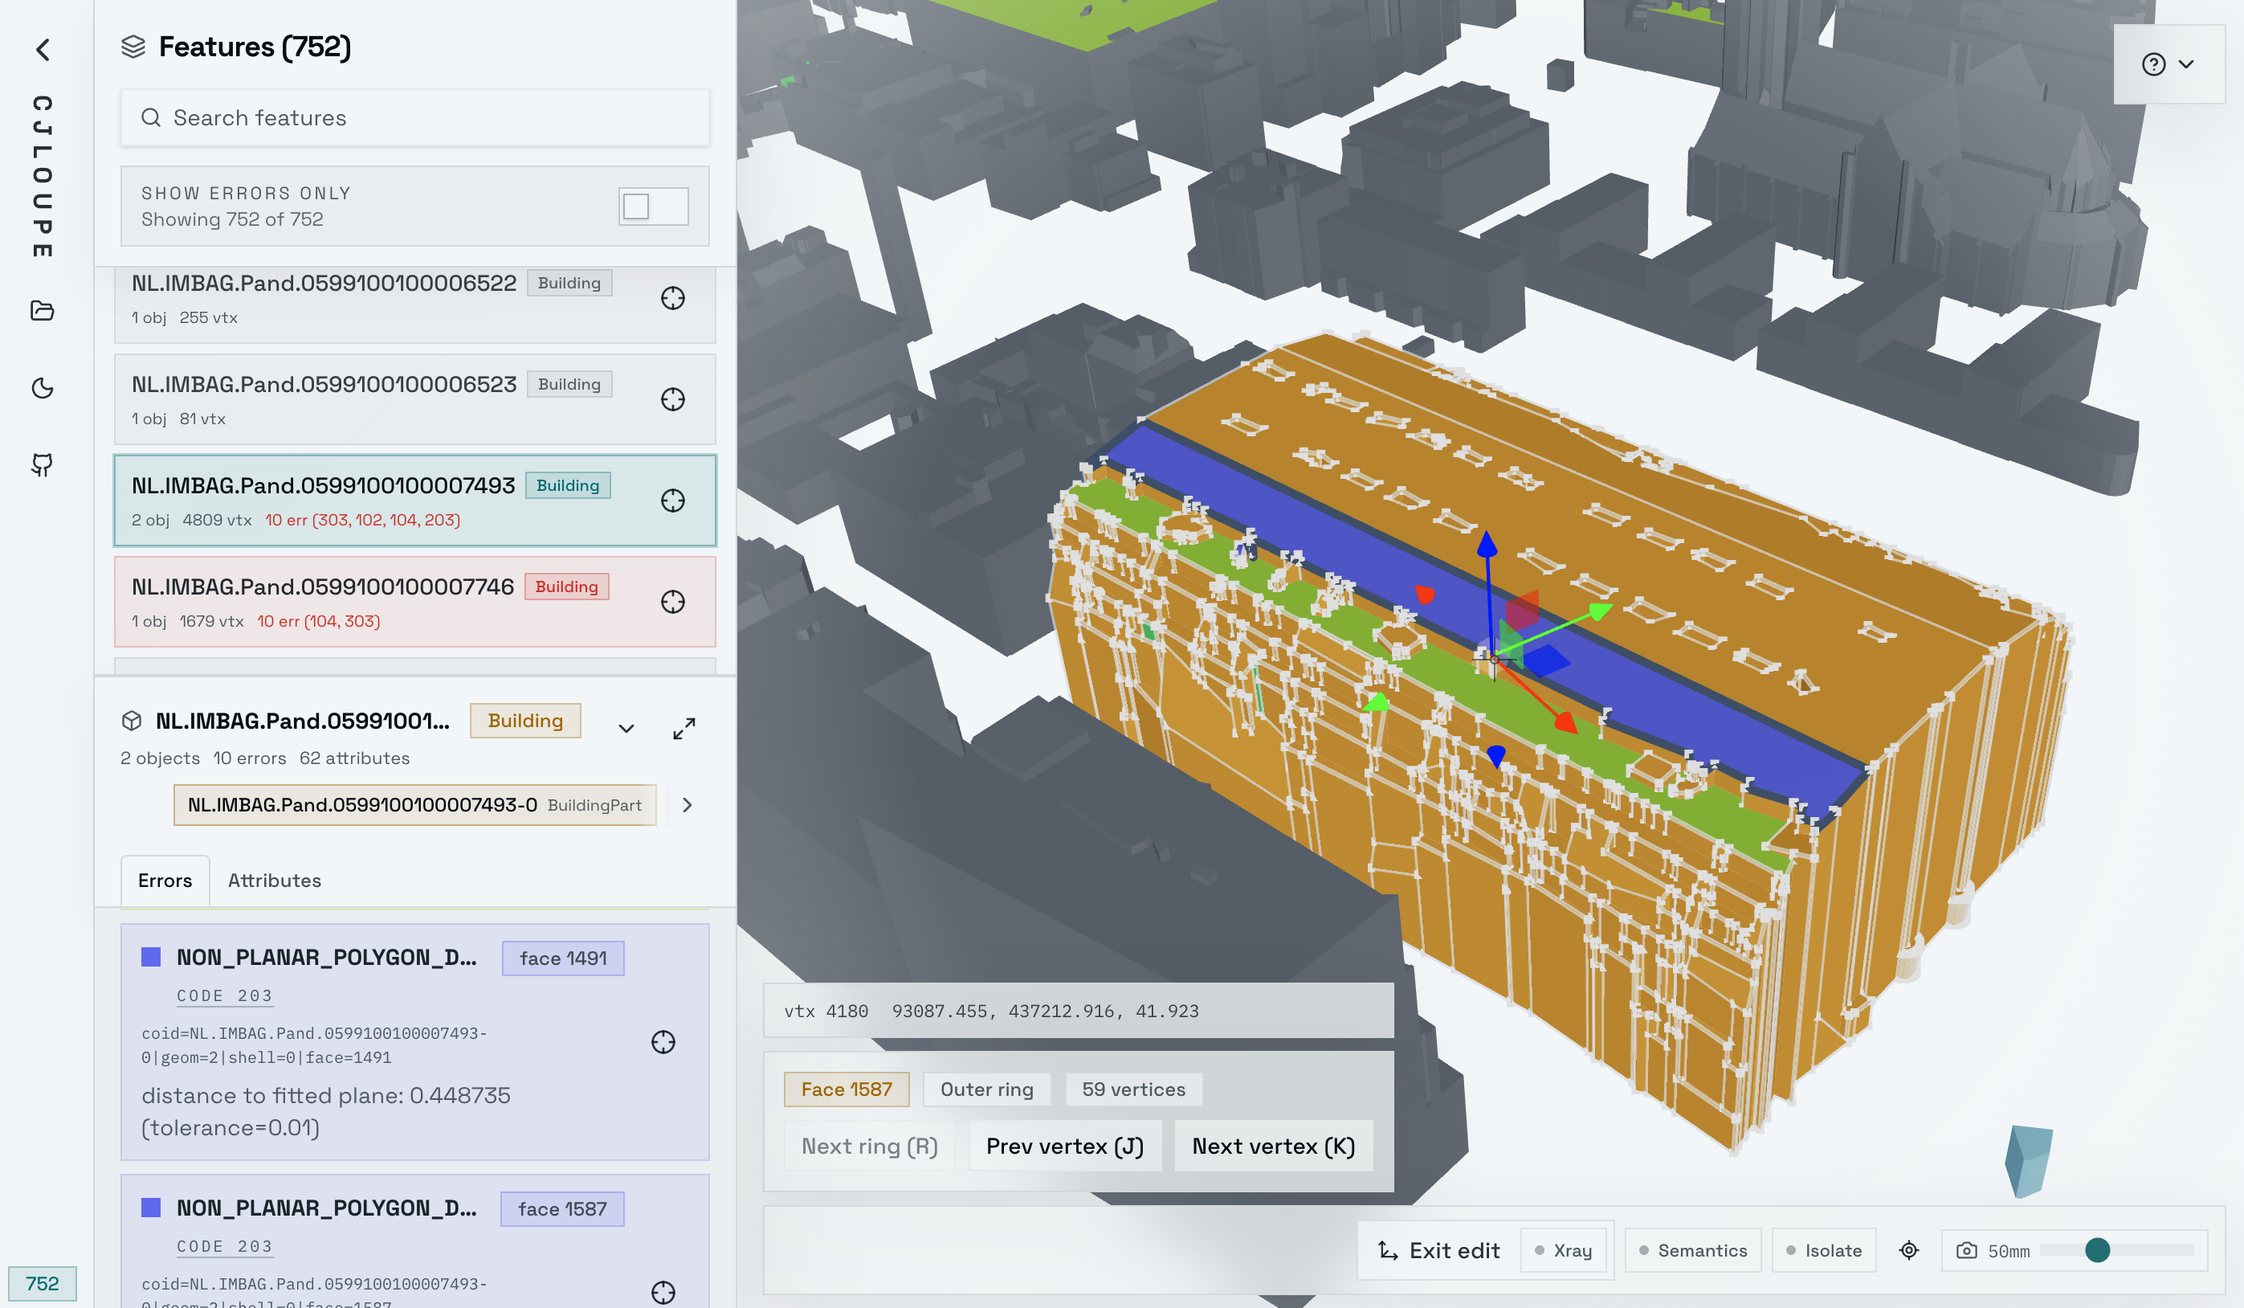
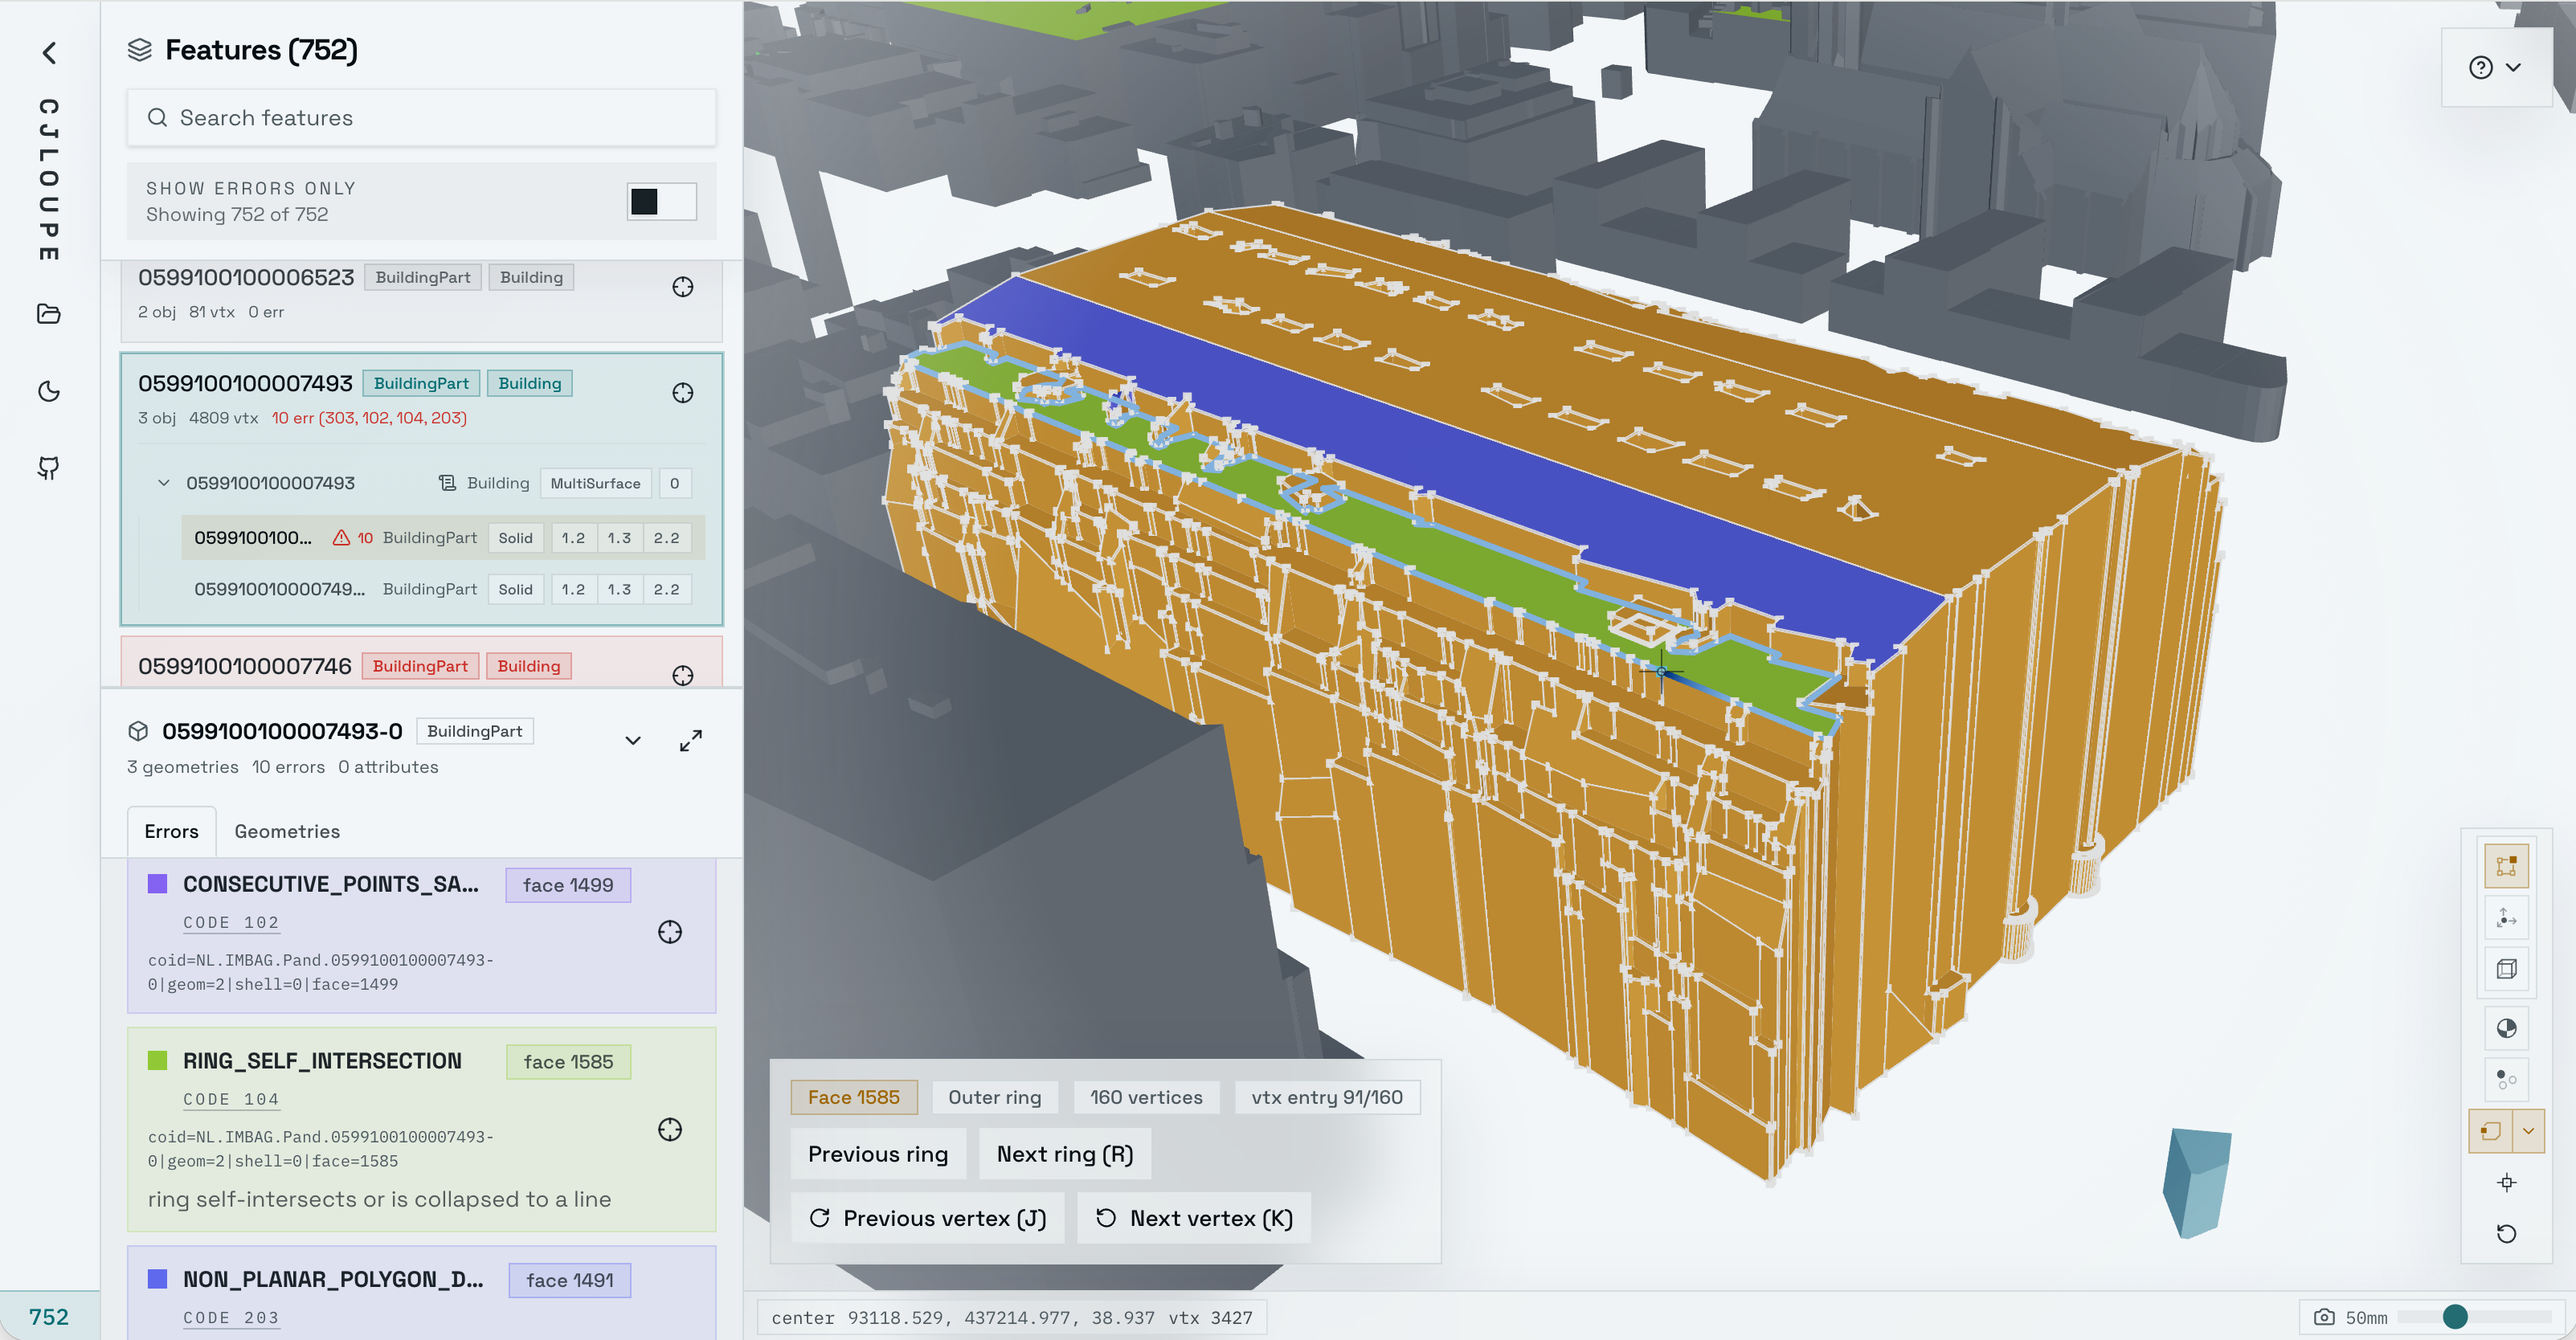
update readme and changelog

diff --git a/README.md b/README.md
@@ -13,9 +13,10 @@ This app was built almost entirely through vibe coding, though I still spent man
 - Loading of [CityJSON feature sequences](https://www.cityjson.org/cityjsonseq/) files
 - 3D viewport with arcball navigation and object picking
 - [val3dity](https://github.com/tudelft3d/val3dity) report loading and error visualization (generate with the val3dity `--report` flag)
-- Collapsible left sidebar with feature list, and feature details
+- Collapsible left sidebar with feature list, and feature details (attributes, val3dity errors, geometries)
 - Semantic surfaces visualisation
 - Edit mode with face selection, ring cycling, vertex selection, and vertex movement
+- LoD selection
 - Simple mobile UI without edit mode
 
 ## Development
@@ -42,15 +43,7 @@ The app loads a bundled sample on startup and also supports local files.
 
 You can load files in two ways:
 
-- Use the file controls in the left rail or file cards
+- Use the file controls in the left rail
 - Drag and drop files into the window
 
 When a dataset is already open, the file action lets you either replace the current CityJSON sequence or attach a matching val3dity report.
-
-## Geometry selection
-
-The loader currently chooses one geometry per CityObject.
-
-- It picks the highest numeric LoD available
-- If two geometries have the same LoD, it prefers `Solid` over surface geometry
-- It prefers renderable leaf objects over parents when both are present

diff --git a/CHANGELOG.md b/CHANGELOG.md
@@ -2,6 +2,8 @@
 
 ## Unreleased
 
+- Do not pick hidden objects
+- Remember picking mode when entering/exiting inspect mode
 - Refine vertex cycle panel in inspect mode
 - Refine inspect mode colors and selection appearance
 - New open file dialog
